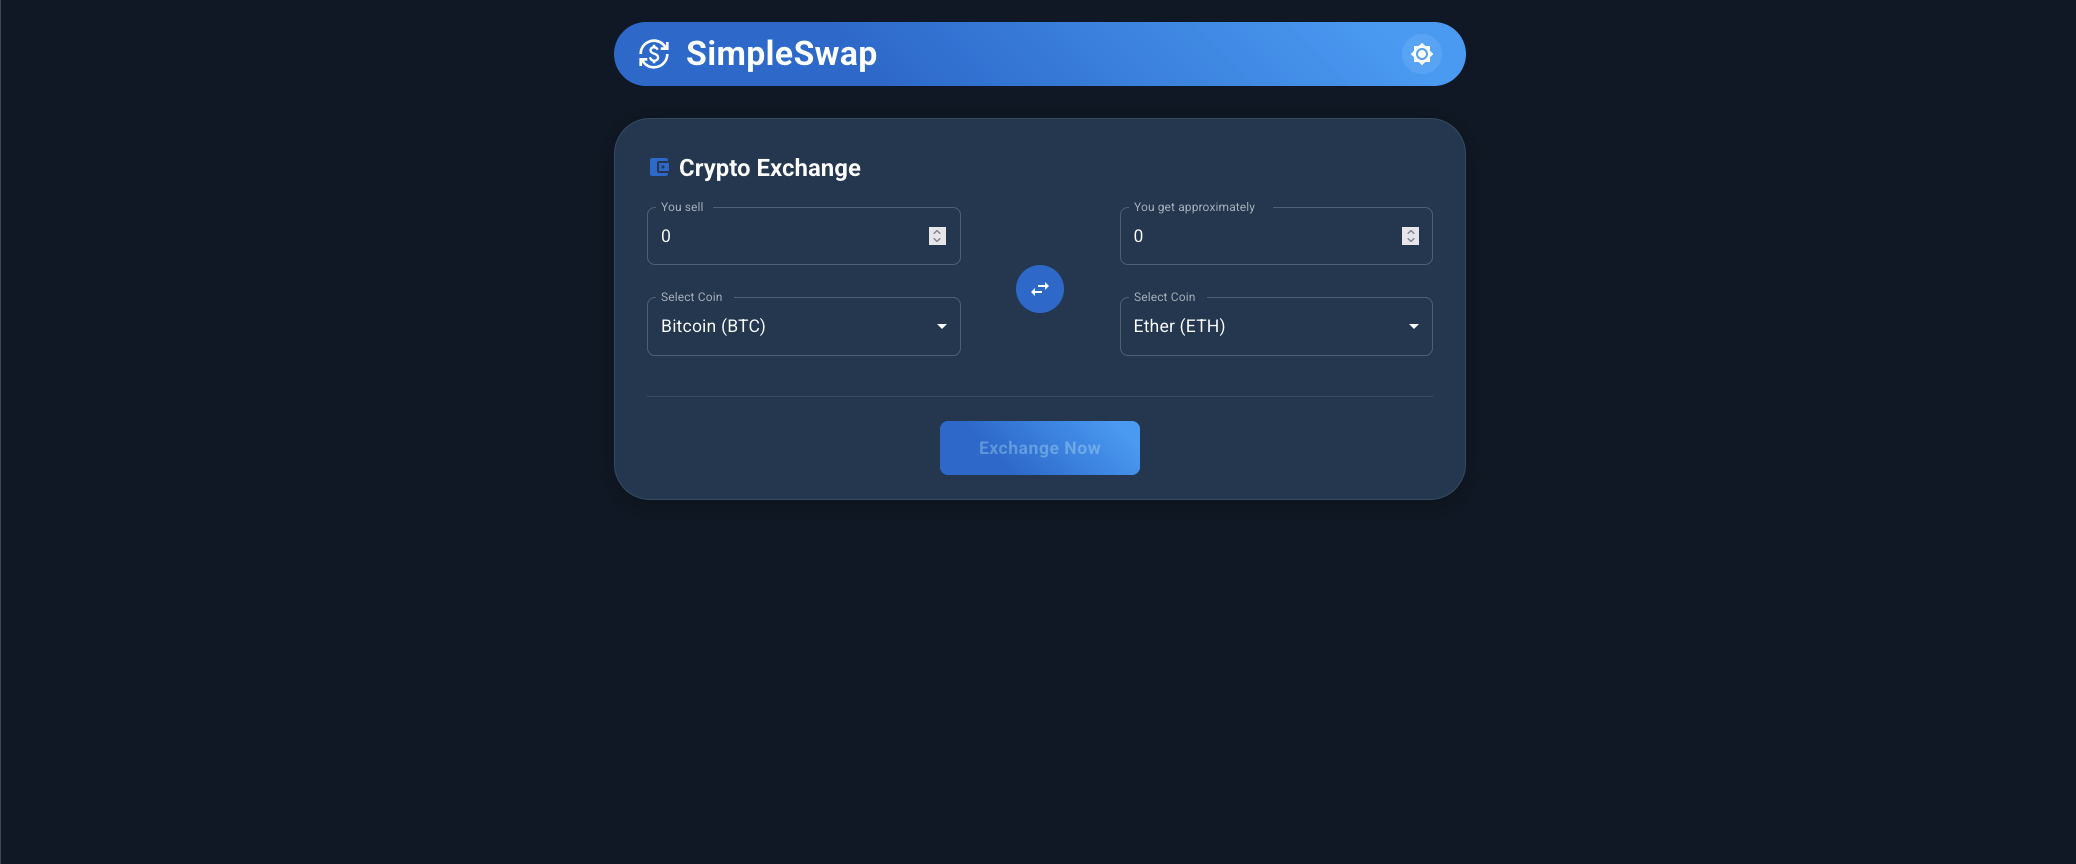
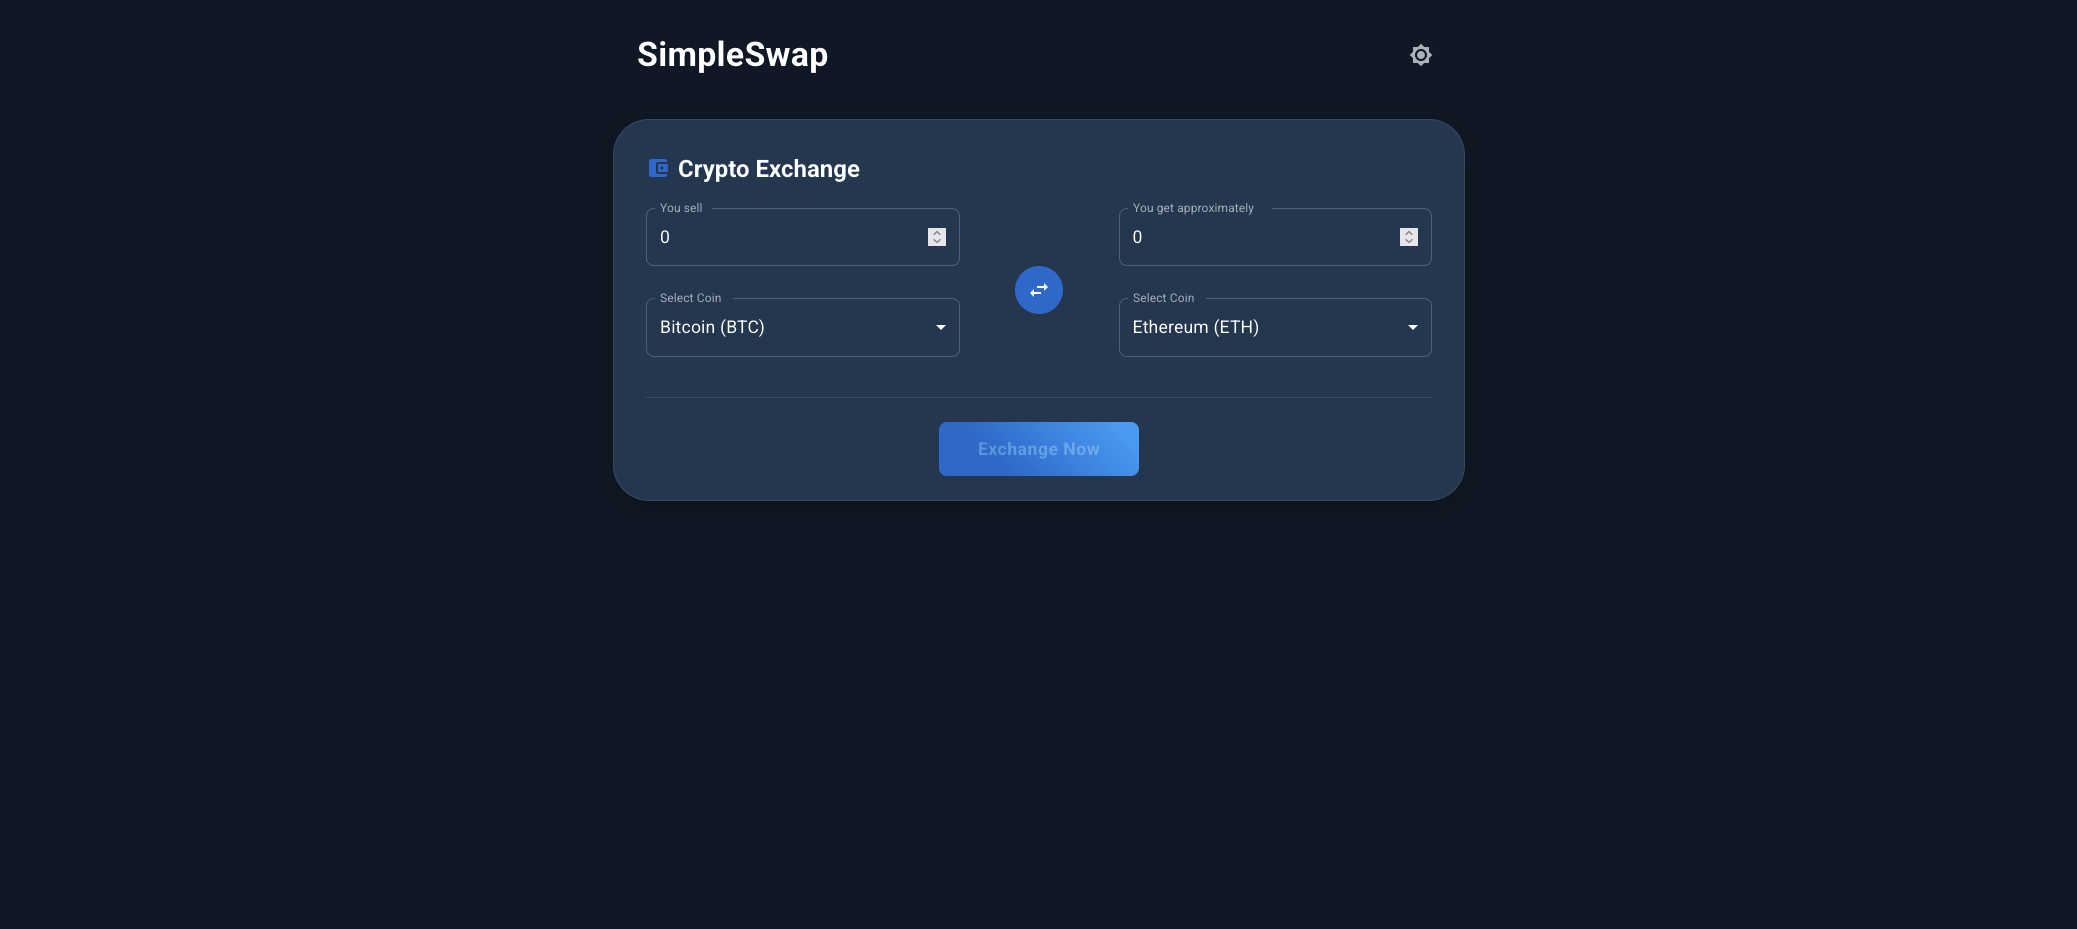
Simplify header

diff --git a/src/components/Header.jsx b/src/components/Header.jsx
@@ -3,16 +3,10 @@ import {
     AppBar,
     Toolbar,
     Typography,
-    Box,
     IconButton,
     Tooltip,
-    Chip,
 } from '@mui/material';
-import {
-    Brightness4,
-    Brightness7,
-    CurrencyExchange,
-} from '@mui/icons-material';
+import { Brightness4, Brightness7 } from '@mui/icons-material';
 import { useTheme } from '../contexts/ThemeContext';
 
 const Header = () => {
@@ -24,28 +18,33 @@ const Header = () => {
             elevation={0}
             sx={{
                 mb: 4,
-                borderRadius: 3,
-                background: 'linear-gradient(45deg, #1976d2 30%, #42a5f5 90%)',
+                backgroundColor: 'transparent',
+                boxShadow: 'none',
             }}
         >
-            <Toolbar>
-                <Box display='flex' alignItems='center' flexGrow={1}>
-                    <CurrencyExchange sx={{ mr: 2, fontSize: 32 }} />
-                    <Typography variant='h4' component='h1' fontWeight='bold'>
-                        SimpleSwap
-                    </Typography>
-                </Box>
+            <Toolbar sx={{ px: 0 }}>
+                <Typography
+                    variant='h4'
+                    component='h1'
+                    fontWeight='600'
+                    sx={{
+                        color: 'text.primary',
+                        flexGrow: 1,
+                    }}
+                >
+                    SimpleSwap
+                </Typography>
 
                 <Tooltip
                     title={`Switch to ${isDarkMode ? 'light' : 'dark'} mode`}
                 >
                     <IconButton
                         onClick={toggleTheme}
-                        color='inherit'
                         sx={{
-                            backgroundColor: 'rgba(255,255,255,0.1)',
+                            color: 'text.secondary',
                             '&:hover': {
-                                backgroundColor: 'rgba(255,255,255,0.2)',
+                                backgroundColor: 'action.hover',
+                                color: 'text.primary',
                             },
                         }}
                     >
